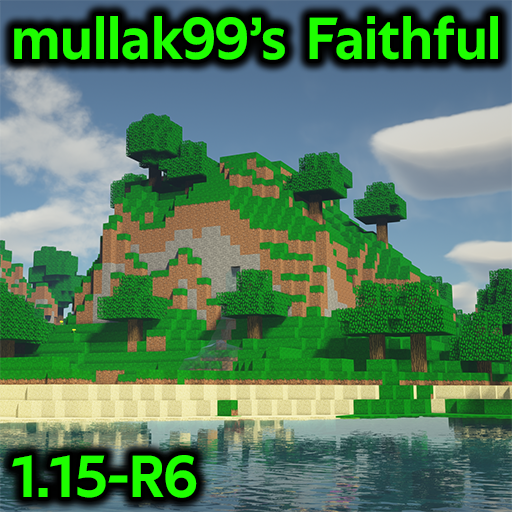
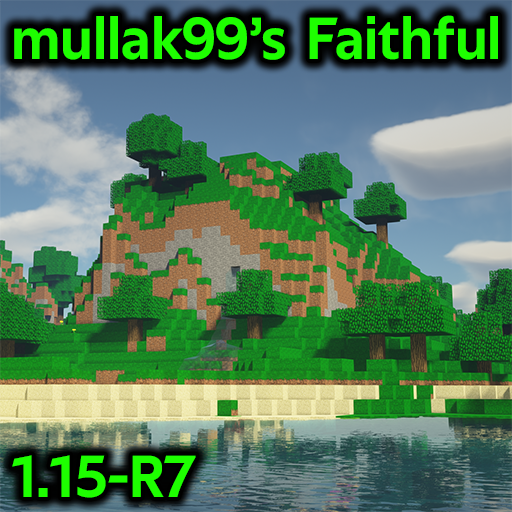
1.15-specific changes

Changed region(s): [[0.3125, 0.8438, 0.4062, 1.0]]

diff --git a/ChangeLog.md b/ChangeLog.md
@@ -1,6 +1,10 @@
 # Changelog
 All notable changes to mullak99's Faithful will be documented in this file.
 
+## [MC1.15-R7] - 2022-06-09
+### Changed
+- Included changes / brought up-to-date with MC1.18-R4
+
 ## [MC1.15-R6] - 2021-12-27
 ### Changed
 - Included changes / brought up-to-date with MC1.18-R3

diff --git a/README.md b/README.md
@@ -1,6 +1,6 @@
 # mullak99's Faithful 32x
 
-**Current Branch Version:** _MC1.16-R16_  
+**Current Branch Version:** _MC1.15-R7_  
 
 ## Official Links
 
